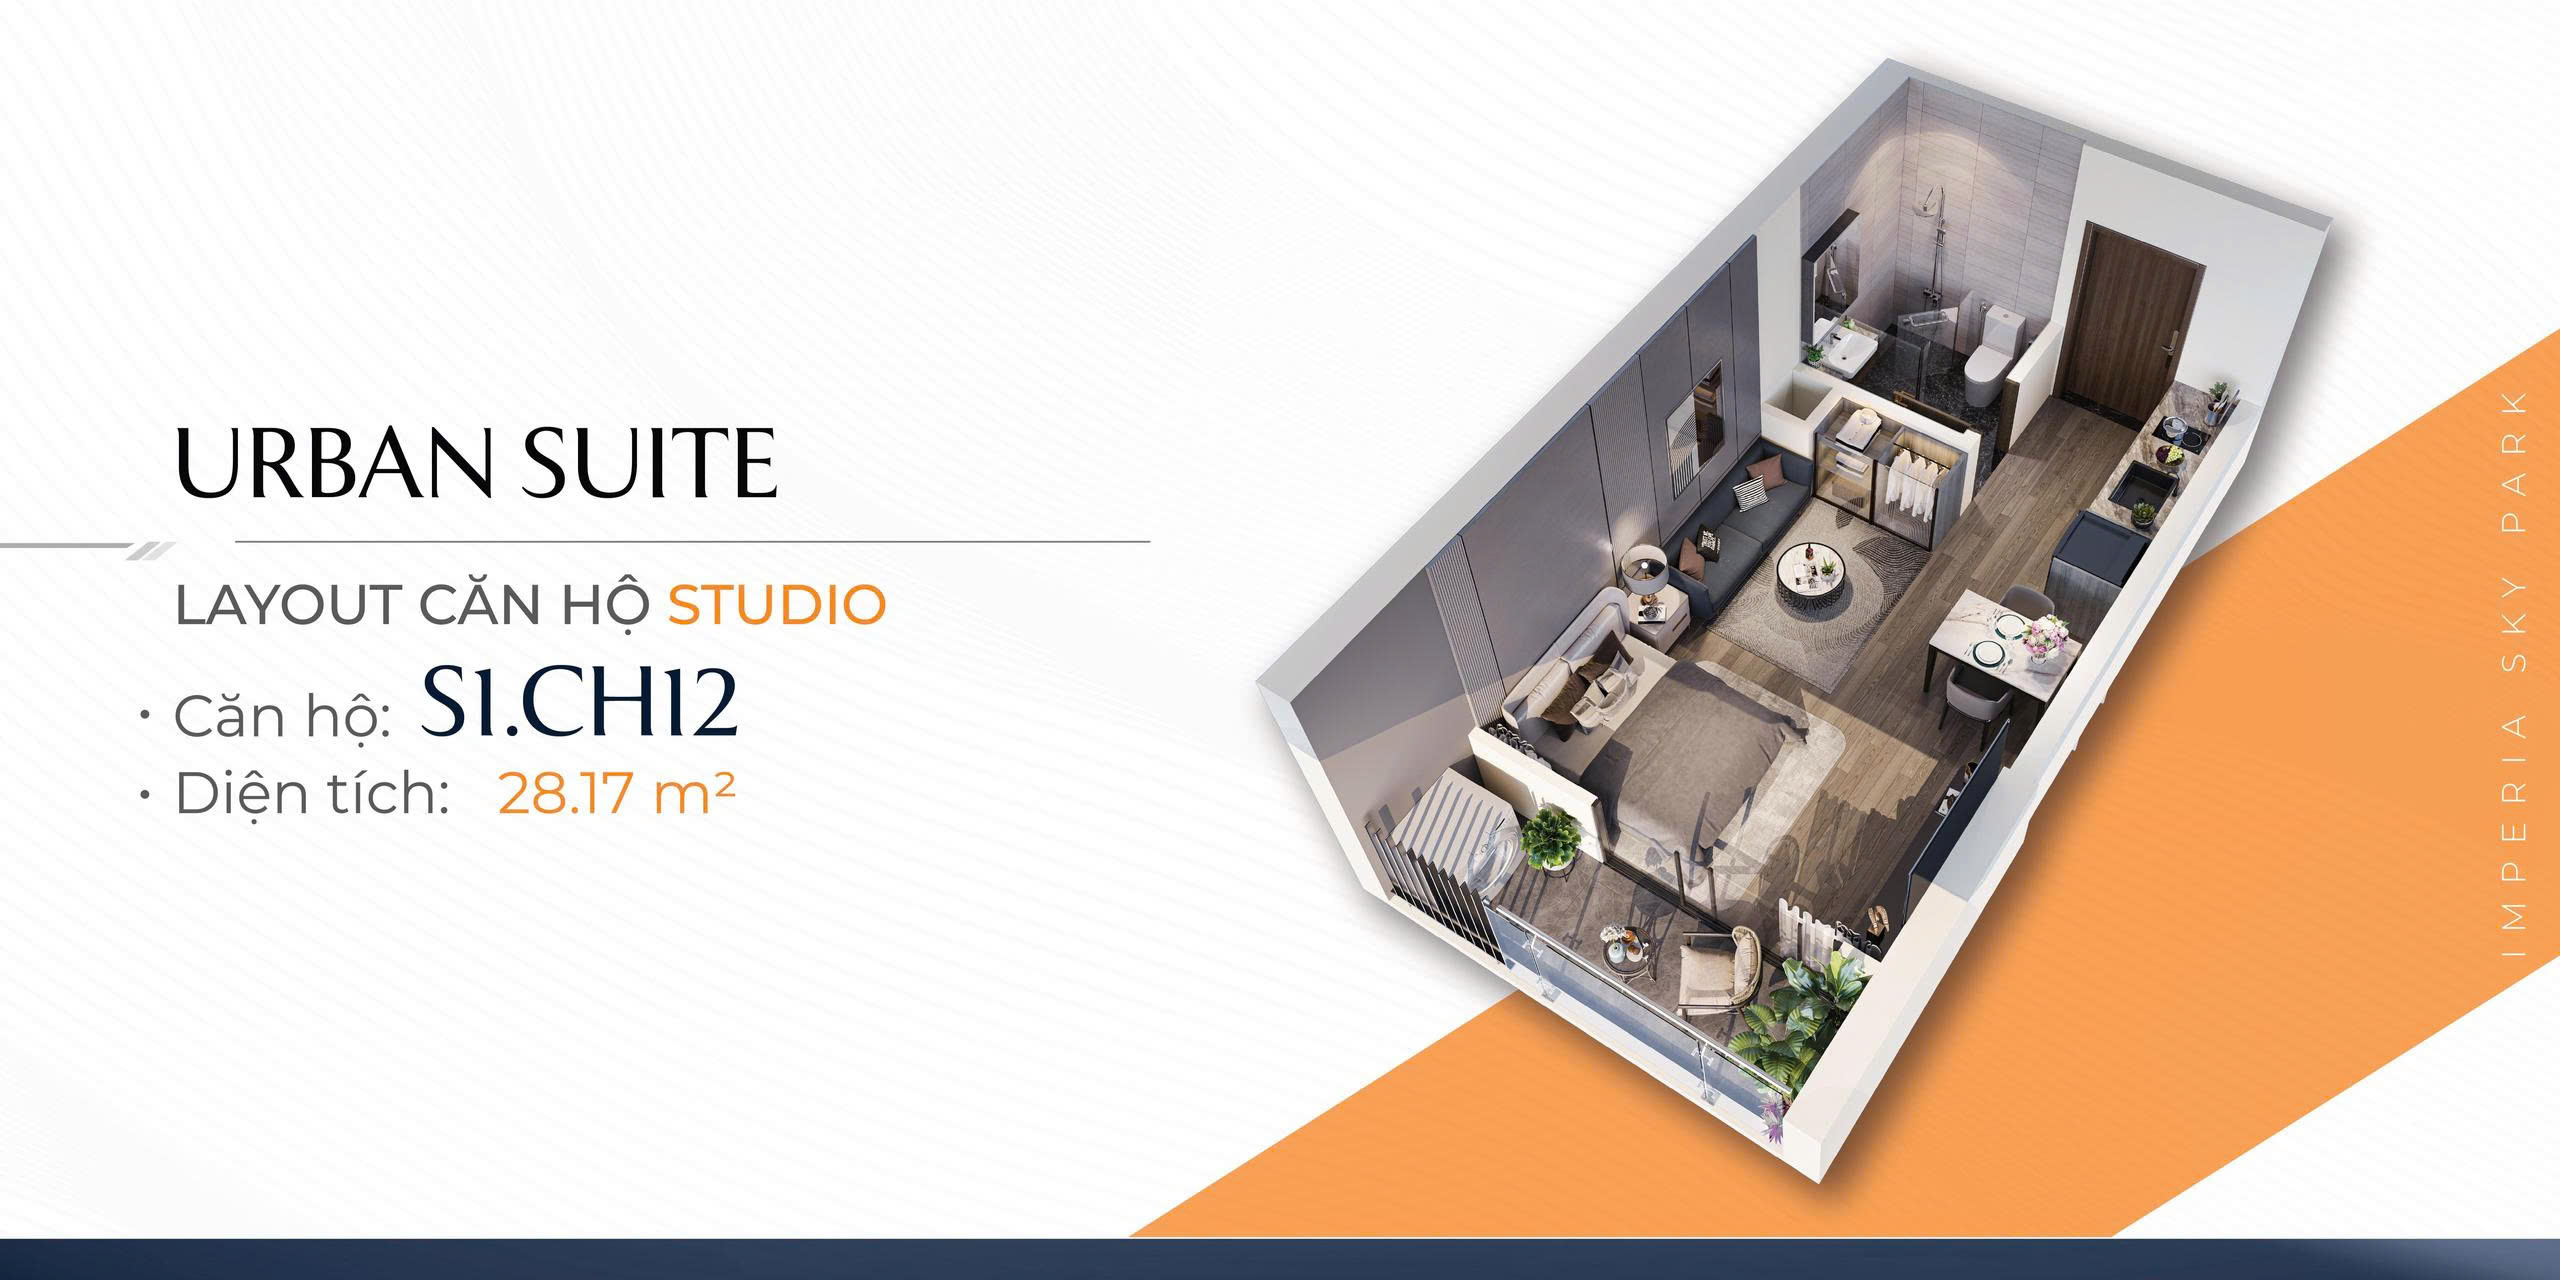
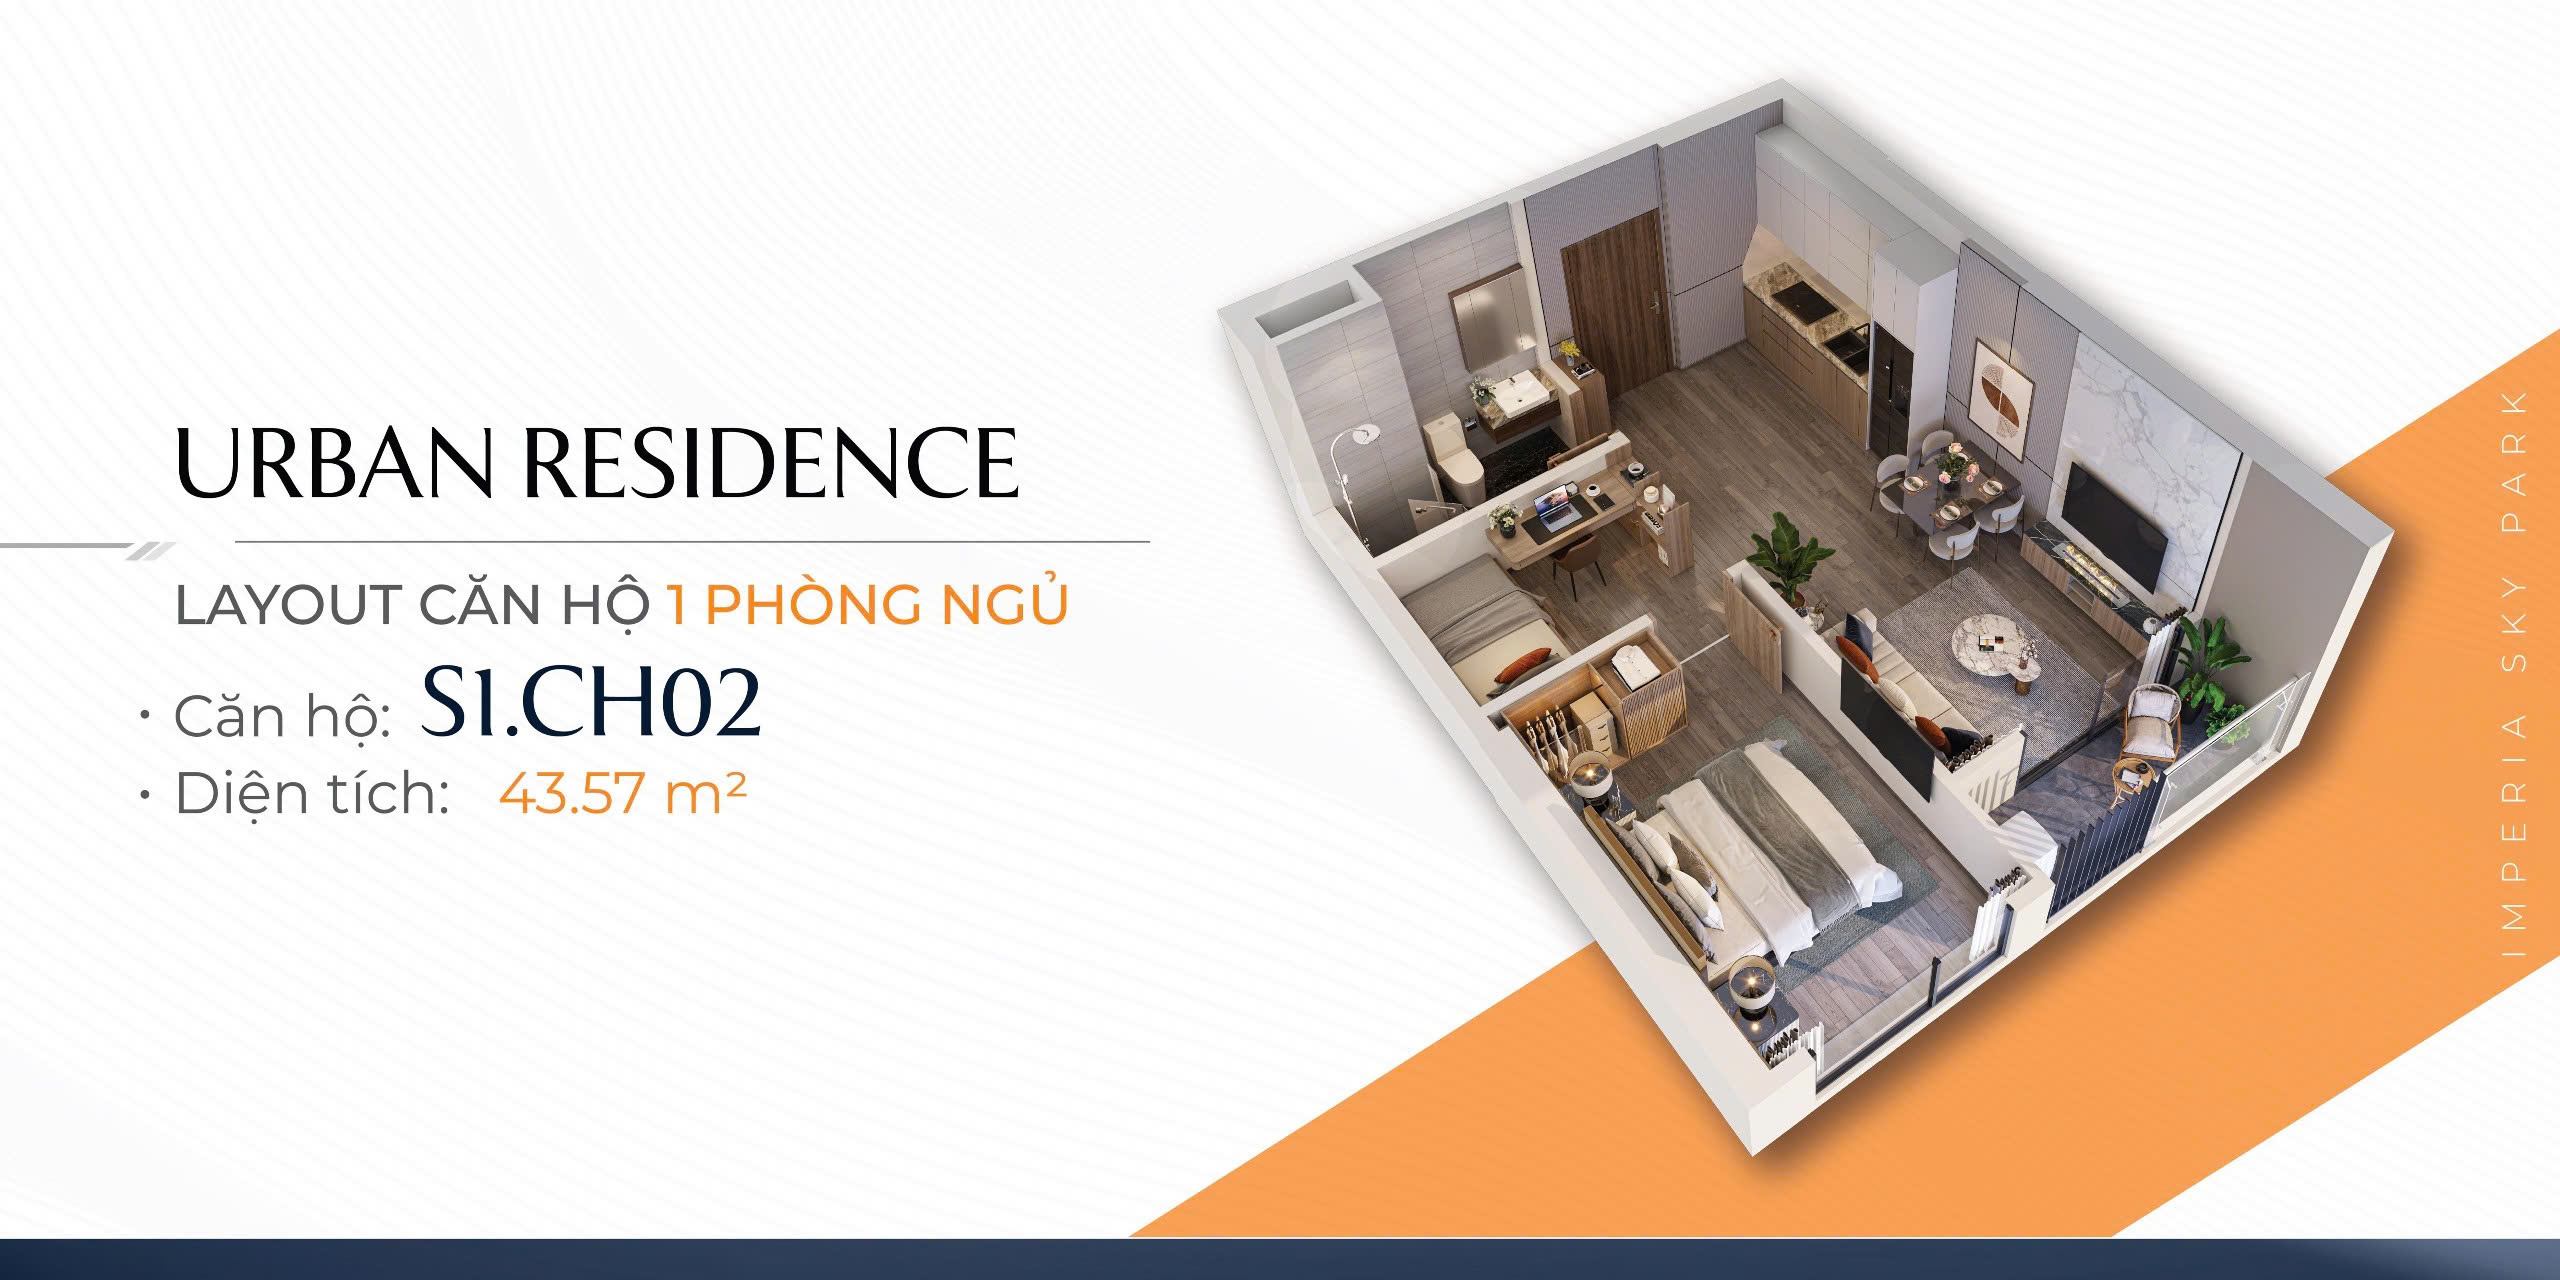
add image in 3d view

Changed region(s): [[0.4688, 0.0312, 0.9688, 0.9375], [0.1875, 0.4375, 0.4375, 0.6562], [0.1875, 0.3125, 0.4062, 0.4062]]

diff --git a/index.html b/index.html
@@ -976,7 +976,111 @@ background: linear-gradient(
 			
 			
 <h2 style="text-align: center;"><span style="font-size: 150%; color: #003366;">NHÀ MẪU CĂN HỘ <span style="color: #e10600;">IMPERIA SKY PARK</span></span></h2>
-<p><img loading="lazy" decoding="async" class="alignnone size-full wp-image-4286" src="https://imperia.vn/wp-content/uploads/2026/01/imperia-sky-park-noi-that-rumor.jpg" alt="" width="1920" height="1080" srcset="https://imperia.vn/wp-content/uploads/2026/01/imperia-sky-park-noi-that-rumor.jpg 1920w, https://imperia.vn/wp-content/uploads/2026/01/imperia-sky-park-noi-that-rumor-300x169.jpg 300w, https://imperia.vn/wp-content/uploads/2026/01/imperia-sky-park-noi-that-rumor-1024x576.jpg 1024w, https://imperia.vn/wp-content/uploads/2026/01/imperia-sky-park-noi-that-rumor-768x432.jpg 768w, https://imperia.vn/wp-content/uploads/2026/01/imperia-sky-park-noi-that-rumor-1536x864.jpg 1536w" sizes="auto, (max-width: 1920px) 100vw, 1920px" /></p>
+<div class="row" id="row-house-layouts">
+	<div class="col small-12 large-12">
+		<div class="col-inner">
+			<div id="house-carousel" style="display: flex; overflow-x: auto; gap: 20px; padding: 20px 0; scroll-snap-type: x mandatory; scroll-behavior: smooth;">
+				
+				<div class="house-card" style="flex: 0 0 calc(50% - 10px); min-width: 300px; text-align: center; padding: 15px; border: 1px solid #ddd; border-radius: 8px; scroll-snap-align: start;">
+					<img src="Images/studio.jpg" alt="Studio" style="width: 100%; height: 280px; object-fit: contain; border-radius: 4px;" />
+					<h4 style="color: #003366; margin: 15px 0 5px; font-size: 16px;">Studio</h4>
+					<p style="color: #e10600; margin: 0; font-weight: bold; font-size: 14px;">27.73 - 28.61 m²</p>
+				</div>
+				
+				<div class="house-card" style="flex: 0 0 calc(50% - 10px); min-width: 300px; text-align: center; padding: 15px; border: 1px solid #ddd; border-radius: 8px; scroll-snap-align: start;">
+					<img src="Images/1pn.jpg" alt="Một phòng ngủ" style="width: 100%; height: 280px; object-fit: contain; border-radius: 4px;" />
+					<h4 style="color: #003366; margin: 15px 0 5px; font-size: 16px;">Một phòng ngủ</h4>
+					<p style="color: #e10600; margin: 0; font-weight: bold; font-size: 14px;">43.53 - 44.02 m²</p>
+				</div>
+				
+				<div class="house-card" style="flex: 0 0 calc(50% - 10px); min-width: 300px; text-align: center; padding: 15px; border: 1px solid #ddd; border-radius: 8px; scroll-snap-align: start;">
+					<img src="Images/2pn.jpg" alt="Hai phòng ngủ" style="width: 100%; height: 280px; object-fit: contain; border-radius: 4px;" />
+					<h4 style="color: #003366; margin: 15px 0 5px; font-size: 16px;">Hai phòng ngủ</h4>
+					<p style="color: #e10600; margin: 0; font-weight: bold; font-size: 14px;">52.5 - 69.35 m²</p>
+				</div>
+				
+				<div class="house-card" style="flex: 0 0 calc(50% - 10px); min-width: 300px; text-align: center; padding: 15px; border: 1px solid #ddd; border-radius: 8px; scroll-snap-align: start;">
+					<img src="Images/2pn+.jpg" alt="Hai phòng ngủ +" style="width: 100%; height: 280px; object-fit: contain; border-radius: 4px;" />
+					<h4 style="color: #003366; margin: 15px 0 5px; font-size: 16px;">Hai phòng ngủ +</h4>
+					<p style="color: #e10600; margin: 0; font-weight: bold; font-size: 14px;">67.27 - 69.23 m²</p>
+				</div>
+				
+				<div class="house-card" style="flex: 0 0 calc(50% - 10px); min-width: 300px; text-align: center; padding: 15px; border: 1px solid #ddd; border-radius: 8px; scroll-snap-align: start;">
+					<img src="Images/3pn.jpg" alt="Ba phòng ngủ" style="width: 100%; height: 280px; object-fit: contain; border-radius: 4px;" />
+					<h4 style="color: #003366; margin: 15px 0 5px; font-size: 16px;">Ba phòng ngủ</h4>
+					<p style="color: #e10600; margin: 0; font-weight: bold; font-size: 14px;">80 - 100 m²</p>
+				</div>
+				
+			</div>
+		</div>
+	</div>
+</div>
+
+<script>
+document.addEventListener('DOMContentLoaded', function() {
+    const carousel = document.getElementById('house-carousel');
+    let scrollInterval;
+    let isPaused = false;
+    
+    function autoScroll() {
+        if (isPaused) return;
+        const maxScroll = carousel.scrollWidth - carousel.clientWidth;
+        if (carousel.scrollLeft >= maxScroll - 5) {
+            carousel.scrollTo({ left: 0, behavior: 'smooth' });
+        } else {
+            carousel.scrollBy({ left: carousel.clientWidth, behavior: 'smooth' });
+        }
+    }
+    
+    scrollInterval = setInterval(autoScroll, 4000);
+    
+    carousel.addEventListener('mouseenter', () => { isPaused = true; });
+    carousel.addEventListener('mouseleave', () => { isPaused = false; });
+    carousel.addEventListener('touchstart', () => { isPaused = true; });
+    carousel.addEventListener('touchend', () => { 
+        setTimeout(() => { isPaused = false; }, 3000);
+    });
+    
+    const modal = document.getElementById('house-modal');
+    const modalImg = document.getElementById('modal-img');
+    const modalTitle = document.getElementById('modal-title');
+    const modalArea = document.getElementById('modal-area');
+    const closeBtn = document.querySelector('.modal-close');
+    
+    document.querySelectorAll('.house-card img').forEach(img => {
+        img.style.cursor = 'pointer';
+        img.addEventListener('click', function() {
+            modal.classList.add('active');
+            modalImg.src = this.src;
+            modalImg.alt = this.alt;
+            const card = this.closest('.house-card');
+            modalTitle.textContent = card.querySelector('h4').textContent;
+            modalArea.textContent = card.querySelector('p').textContent;
+            document.body.style.overflow = 'hidden';
+        });
+    });
+    
+    closeBtn.addEventListener('click', () => {
+        modal.classList.remove('active');
+        document.body.style.overflow = '';
+    });
+    
+    modal.addEventListener('click', (e) => {
+        if (e.target === modal) {
+            modal.classList.remove('active');
+            document.body.style.overflow = '';
+        }
+    });
+    
+    document.addEventListener('keydown', (e) => {
+        if (e.key === 'Escape' && modal.classList.contains('active')) {
+            modal.classList.remove('active');
+            document.body.style.overflow = '';
+        }
+    });
+});
+</script>
+
 		</div>
 			</div>
 
@@ -2032,6 +2136,73 @@ async function sendLeadTop(){
 }
 
 </script>
+
+<style>
+#house-modal {
+    display: none;
+    position: fixed;
+    top: 0;
+    left: 0;
+    width: 100%;
+    height: 100%;
+    background: rgba(0,0,0,0.9);
+    z-index: 9999;
+    justify-content: center;
+    align-items: center;
+    flex-direction: column;
+}
+#house-modal.active {
+    display: flex;
+}
+#house-modal .modal-content {
+    max-width: 90%;
+    max-height: 80vh;
+}
+#house-modal .modal-content img {
+    max-width: 100%;
+    max-height: 75vh;
+    object-fit: contain;
+    border-radius: 8px;
+}
+#house-modal .modal-info {
+    text-align: center;
+    color: white;
+    margin-top: 20px;
+}
+#house-modal .modal-info h3 {
+    margin: 0 0 10px;
+    color: #fff;
+}
+#house-modal .modal-info p {
+    margin: 0;
+    color: #e10600;
+    font-size: 18px;
+    font-weight: bold;
+}
+.modal-close {
+    position: absolute;
+    top: 20px;
+    right: 30px;
+    font-size: 40px;
+    color: white;
+    cursor: pointer;
+    line-height: 1;
+}
+.modal-close:hover {
+    color: #e10600;
+}
+</style>
+
+<div id="house-modal">
+    <span class="modal-close">&times;</span>
+    <div class="modal-content">
+        <img id="modal-img" src="" alt="" />
+    </div>
+    <div class="modal-info">
+        <h3 id="modal-title"></h3>
+        <p id="modal-area"></p>
+    </div>
+</div>
 
 </body>
 
